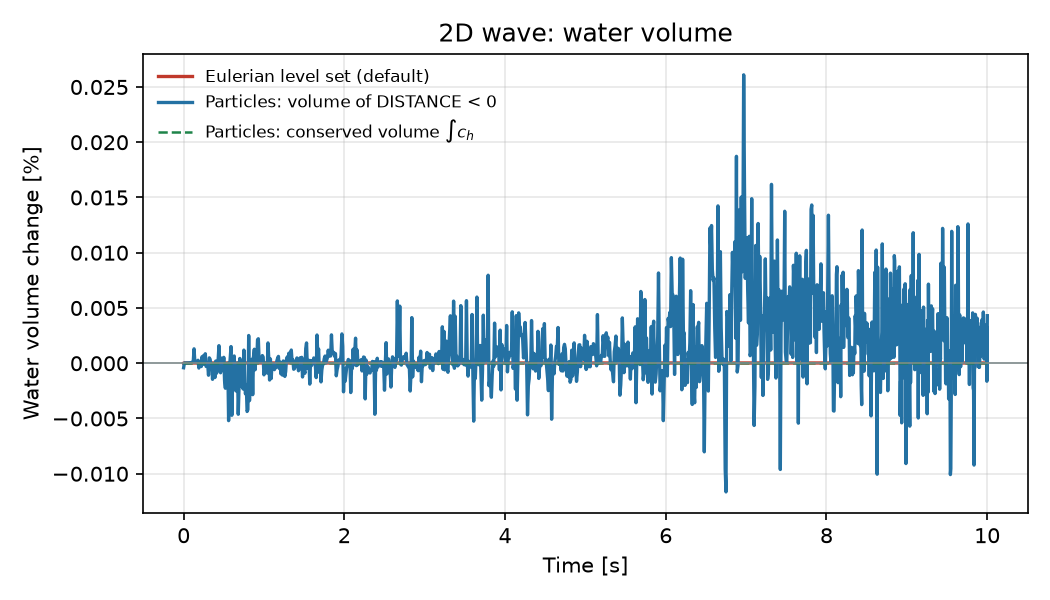
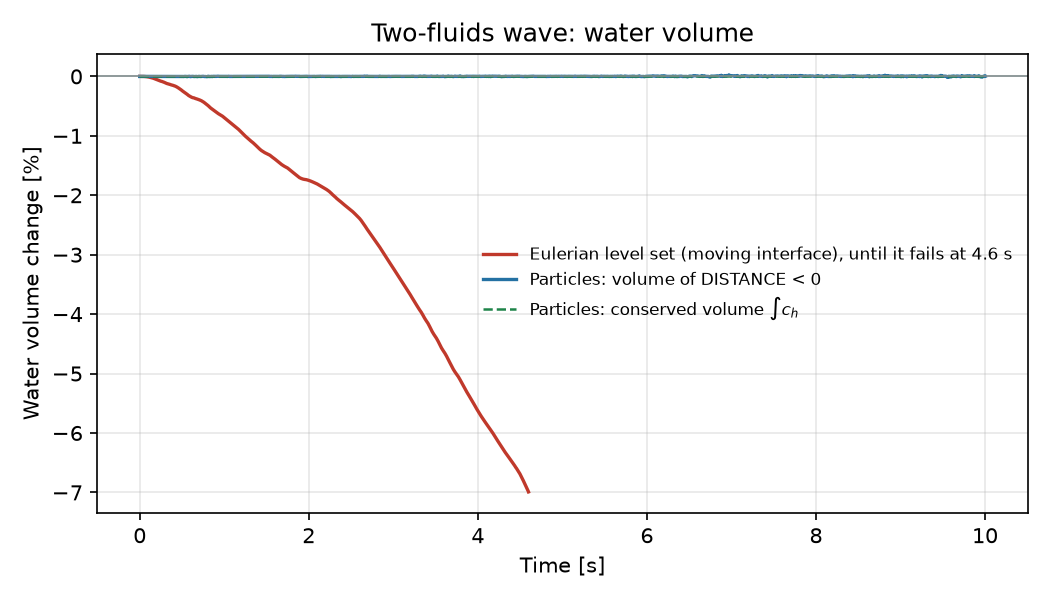
Add two-fluids dam break scenario with particle level set transport and associated visualizations

diff --git a/fluid_dynamics/validation/two_fluid_dam_break_particles/README.md b/fluid_dynamics/validation/two_fluid_dam_break_particles/README.md
@@ -1,0 +1,81 @@
+# Two-fluids dam break scenario with particle level set transport
+
+**Author:** [Vicente Mataix Ferrándiz](https://github.com/loumalouomega)
+
+**Kratos version:** 10.4
+
+**Source files:** [Two-fluids dam break scenario with particles](https://github.com/KratosMultiphysics/Examples/tree/master/fluid_dynamics/validation/two_fluid_dam_break_particles/source)
+
+## Case Specification
+This is the [two-fluids dam break](https://github.com/KratosMultiphysics/Examples/blob/master/fluid_dynamics/validation/two_fluid_dam_break/README.md) example, with the same mesh (92,461 tetrahedra), materials, boundary conditions and initial state. A water-filled cuboid is released at time 0, spreads across the domain and splashes against an obstacle. The only change is how the water surface is transported: the default Eulerian level set convection is replaced by the **particle level set transport**, based on the PDE-constrained particle-mesh projection of LEoPart (Maljaars et al.).
+
+Lagrangian particles carry a water/air indicator and a signed distance. Every time step the indicator is projected onto the mesh with a projection constrained by a discrete conservation law, so the water volume changes only through the boundary fluxes and is conserved exactly in each element. The nodal `DISTANCE` used by the two-fluid elements is rebuilt from the particles and shifted to match that volume. The method is documented in the [Kratos documentation](https://kratosmultiphysics.github.io/Kratos/pages/Applications/Fluid_Dynamics_Application/Particle_Level_Set_Transport/Overview.html).
+
+Compared with the original example, `ProjectParameters.json` adds the following to the `solver_settings`:
+
+```json
+"eulerian_fm_ale": true,
+"levelset_transport_type": "particle_pde_projection",
+"particle_pde_projection_settings": {
+    "echo_level": 1,
+    "particles_output": {
+        "model_part_name": "FluidParticles",
+        "interval": 25,
+        "stride": 10
+    }
+}
+```
+
+All the other particle settings use their defaults for 3D: 40 particles per element at the start, kept between 25 and 80. The top of the domain is an outlet: the water that leaves through it is taken into account in the conserved volume, and the fluid that would enter through it is air.
+
+`"eulerian_fm_ale": true` is the default of the hydraulic solver and is written here explicitly. With it the Eulerian level set convection does not move the interface (the mesh velocity equals the fluid velocity at the free nodes), while the particles are not affected. See the [documentation](https://kratosmultiphysics.github.io/Kratos/pages/Applications/Fluid_Dynamics_Application/Particle_Level_Set_Transport/Design_Decisions_and_Results.html).
+
+## Visualizing the particles
+`particles_output` copies every tenth particle to the model part `FluidParticles` every 25 steps (0.05 s). Each particle is a point with `DISTANCE`, its signed distance, and `PHASE_FRACTION`, 1 for water and 0 for air. A second VTK output process writes it to `vtk_output_particles/`. The fluid VTK output also writes the projected indicator `PHASE_FRACTION`.
+
+In ParaView, open `vtk_output_particles/FluidParticles_0_*.vtk`, use the *Points* representation, colour by `PHASE_FRACTION`, and apply a *Threshold* on `DISTANCE` to keep the particles next to the interface, as in the pictures below.
+
+## Results
+The case was run to 2 s with a time step of 0.002 s (1,000 steps). The pictures show the mid-plane y = 0.5: the water (light blue), the zero level set of `DISTANCE` (black line) and the particles closer than 0.04 m to the interface, in a slab of 0.1 m around the plane, coloured by phase (water in blue, air in orange).
+
+<p align="center">
+  <img src="data/dam_break_3D_particles_time_0.25s.png" alt="Mid-plane at time 0.25 s" style="width: 900px;"/>
+</p>
+
+<p align="center">
+  <img src="data/dam_break_3D_particles_time_0.50s.png" alt="Mid-plane at time 0.5 s" style="width: 900px;"/>
+</p>
+
+<p align="center">
+  <img src="data/dam_break_3D_particles_time_1.00s.png" alt="Mid-plane at time 1 s" style="width: 900px;"/>
+</p>
+
+<p align="center">
+  <img src="data/dam_break_3D_particles_time_1.50s.png" alt="Mid-plane at time 1.5 s" style="width: 900px;"/>
+</p>
+
+<p align="center">
+  <img src="data/dam_break_3D_particles_time_2.00s.png" alt="Mid-plane at time 2 s" style="width: 900px;"/>
+</p>
+
+### Water volume
+The conserved volume $\int c_h$ is 0.674197 m³ over the whole run and does not change beyond round-off (2.9e-15 m³ per step at most). The local conservation residual is below 1.7e-15 in every step. The volume of the region `DISTANCE < 0` right after the transport matches it to 0.013 %.
+
+The volume of `DISTANCE < 0` at the end of the step, after the redistancing and the flow solution, is lower: between 0.5 % above and 6.2 % below $\int c_h$, with 3.4 % below at 2 s. It is shifted back to $\int c_h$ at the start of the next step, so the difference does not accumulate. It grows with the splashes, where thin sheets of water are narrower than the mesh size and the redistancing cannot represent them. It is visible in the pictures as small isolated water regions of the mesh next to the obstacle and at the right end of the domain.
+
+The original Eulerian convection, with a moving interface (`"eulerian_fm_ale": false`, the only setting for which the interface moves), loses water from the start: 7 % at 0.5 s and 17.6 % at 0.95 s. That run fails at 1.0 s, with velocities of 1e16 m/s.
+
+<p align="center">
+  <img src="data/dam_break_3D_water_volume.png" alt="Water volume change over time" style="width: 700px;"/>
+</p>
+
+### Limitations observed in this run
+* **Facet system.** The conjugate-gradient solver of the projection did not reach the tolerance 1e-6 in 81 of 1,000 steps (the worst relative residual was 3.2e-5). The warning in the log states that the volume is still conserved, and it is: only the indicator can be less accurate in those steps.
+* **Velocities.** The 99th percentile of the water velocity is 3.5 m/s at 0.5 s and 6.5 m/s at 1.2 s. A few nodes next to the corners and walls, where there is a thin film of water, have much larger values (several tens of m/s, and 315 m/s at the maximum of the run), so the maximum velocity of the water is not a useful measure for this case.
+* **Outlet.** At the top outlet the computed velocity field points into the domain over some faces that touch the splash, from 1.0 s on. The transport takes air as incoming fluid there, so no water is created (an earlier version, that took the level set indicator, created 0.124 m³). The flow solution still sees that flux.
+* **Run time.** The run took 10,668 s (2.96 h) on 8 OpenMP threads of a 16-core workstation, shared with the Eulerian run during the first 1,060 s. The particles go from 3.70 million to 4.28 million.
+
+## References
+* J.M. Maljaars, R.J. Labeur, N. Trask, D. Sulsky, (2019) "Conservative, high-order particle-mesh scheme with applications to advection-dominated flows", Computer Methods in Applied Mechanics and Engineering 348, pp. 443-465.
+* J.M. Maljaars, C.N. Richardson, N. Sime, (2021) "LEoPart: A particle library for FEniCS", Computers & Mathematics with Applications 81, pp. 289-315.
+* F. Larese, R. Rossi, E. Oñate, S.R. Idelsohn, (2008) "Validation of the particle finite element method (PFEM) for simulation of free surface flows", Engineering Computations 25(4), pp. 385-425.

diff --git a/fluid_dynamics/validation/two_fluid_wave_particles/README.md b/fluid_dynamics/validation/two_fluid_wave_particles/README.md
@@ -19,6 +19,7 @@ The method, its settings and its validation are documented in the [Kratos docume
 Compared with the original example, `ProjectParameters.json` adds the following to the `solver_settings`:
 
 ```json
+"eulerian_fm_ale": true,
 "levelset_transport_type": "particle_pde_projection",
 "particle_pde_projection_settings": {
     "echo_level": 1,
@@ -49,7 +50,7 @@ To see the particles in ParaView:
 3. A *Threshold* on `DISTANCE` between -0.25 and 0.25 keeps only the particles next to the interface, as in the pictures below.
 
 ## Results
-The case was run to 10 s, with the given mesh of 5,635 triangles, once with the particle transport and once with the original Eulerian setup. The particles were 140,875 at the start and 157,081 at the end; the population control adds particles to the elements that fall below the minimum.
+The case was run to 10 s, with the given mesh of 5,635 triangles. The population control adds particles to the elements that fall below the minimum.
 
 The pictures show the water (light blue) and the zero level set of `DISTANCE` (black line). The particles closer than 0.25 m to the interface are drawn coloured by their phase: water in blue, air in orange.
 
@@ -74,31 +75,30 @@ The pictures show the water (light blue) and the zero level set of `DISTANCE` (b
 </p>
 
 ### Water volume
-The conserved volume $\int c_h$ of the particle transport stays constant to 1.7e-13 %. In every step, the local conservation residual is below 6e-16 and the projection system converges to 1e-8.
+The conserved volume $\int c_h$ of the particle transport stays constant to 1.9e-13 %. In every step, the local conservation residual is below 6e-16 and the projection system converges to 1e-8. The domain is closed, so there is no flux through the boundary.
 
 The volume of the region where `DISTANCE < 0` is plotted at the end of each step, after the redistancing. It deviates by at most 0.026 % from the initial volume. The deviation comes from the redistancing and is removed at the start of the next step, when the distance is shifted back to the conserved volume.
 
-In this smooth 2D case the Eulerian transport also keeps the volume almost constant (2.3e-5 %).
+The Eulerian level set convection loses water instead: 1.75 % at 2 s and 7 % at 4.6 s, where the run fails (see the next section). The curve below stops there.
 
 <p align="center">
   <img src="data/wave_2D_water_volume.png" alt="Water volume change over time" style="width: 700px;"/>
 </p>
 
-### Velocities and run time
-With the original Eulerian setup, spurious velocities develop at the interface next to the left wall and grow linearly in time, up to 63 m/s at 10 s. They force the automatic time step (CFL 0.5) to become about 7 times smaller. With the particle transport the maximum water velocity stays between 1 and 7 m/s.
+### Level set convection and `eulerian_fm_ale`
+The hydraulic solver option `eulerian_fm_ale` (default `true`) sets the mesh velocity equal to the fluid velocity at the free nodes. The Eulerian level set convection advects `DISTANCE` with the velocity relative to the mesh, so with the option on the Eulerian interface does not move at all (we measured 0 of 2,985 nodes changing sign in 10 s). The particles are advected with the fluid velocity directly and are not affected. For this reason:
 
-<p align="center">
-  <img src="data/wave_2D_max_velocity.png" alt="Maximum water velocity over time" style="width: 700px;"/>
-</p>
+* the particle example keeps the default `"eulerian_fm_ale": true`, which is written explicitly in `ProjectParameters.json`;
+* an Eulerian run with a moving interface needs `"eulerian_fm_ale": false`, and that is the only Eulerian reference that makes sense to compare with.
 
-| Transport | Time steps | Run time | Time per step |
-|---|---|---|---|
-| Eulerian level set (original example) | 8,170 | 2,864 s | 0.35 s |
-| Particles | 1,174 | 364 s | 0.31 s |
+With `"eulerian_fm_ale": false` both transports fail at the same moment, when the wave breaks on the beach: the Eulerian run at 4.67 s (after losing 7 % of the water) and the particle run at 4.48 s. The cause is then in the flow solution with this option, not in the level set transport. With the option on, the particles run to 10 s: the maximum water velocity stays between 1 and 8 m/s, and the automatic time step (CFL 0.5) goes from 0.01 s down to 0.005 s when the wave breaks.
 
-The run times are from a 16-core workstation with OpenMP. In this 2D case a particle step costs about the same as an Eulerian one. The difference in total run time comes from the time step.
+### Run time
+| Run | Time steps | Run time |
+|---|---|---|
+| Particles, `eulerian_fm_ale: true` | 1,169 | 450 s |
 
-The projected indicator stays in [-0.04, 1.38]. The largest overshoots appear where the wave breaks; the conservation is not affected.
+The particle run took 450 s on 8 OpenMP threads of a 16-core workstation, which was shared with another run. The particles start at 140,875 and end at 157,213; the projected indicator stays in [-0.042, 1.38], with the largest overshoots where the wave breaks. The conservation is not affected by them.
 
 ## References
 * J.M. Maljaars, R.J. Labeur, N. Trask, D. Sulsky, (2019) "Conservative, high-order particle-mesh scheme with applications to advection-dominated flows", Computer Methods in Applied Mechanics and Engineering 348, pp. 443-465.
